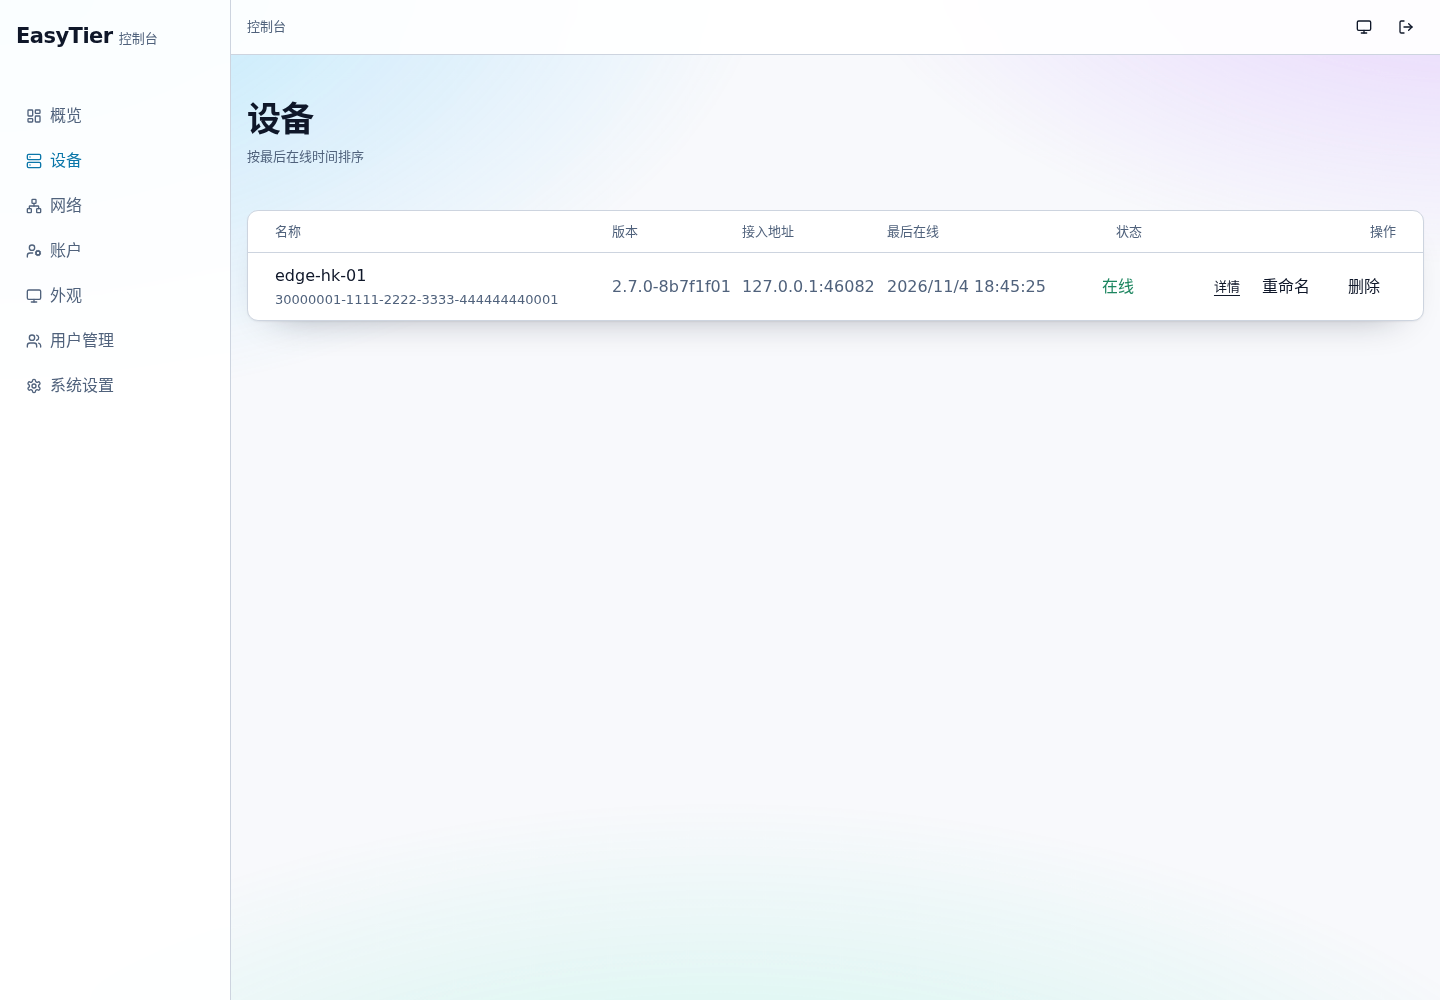
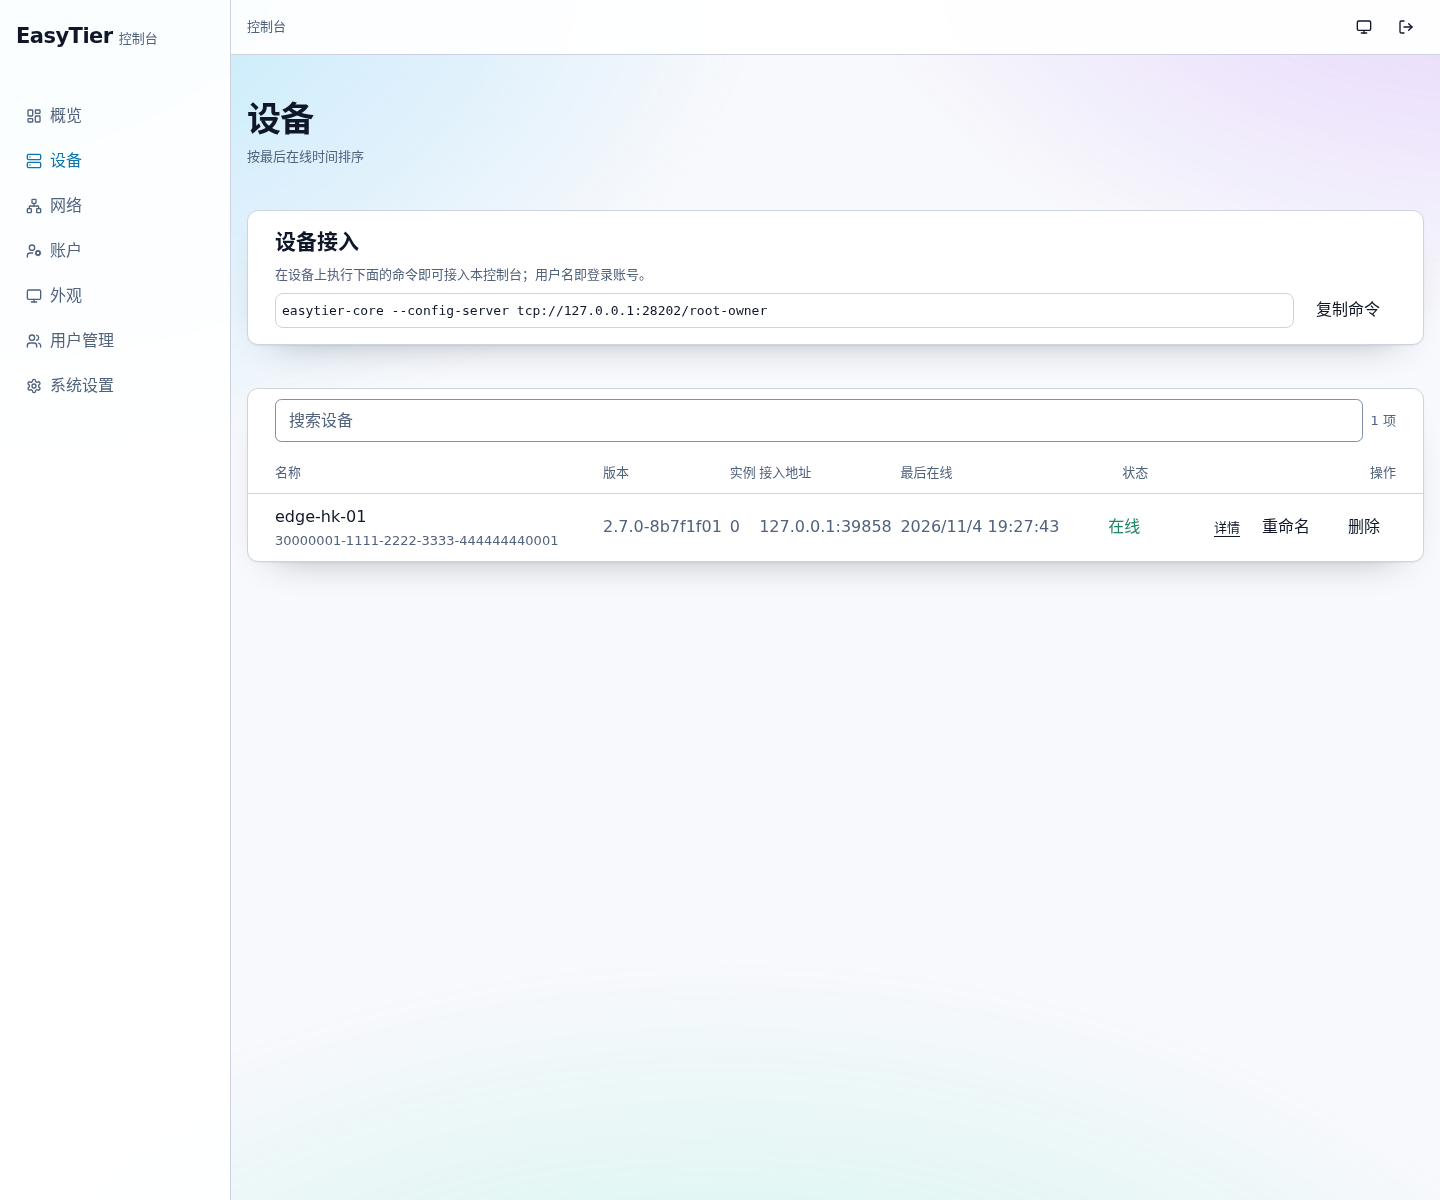
console: tell the client which port to dial, and guide device enrolment
console-info now carries config_server_port, parsed from the listen flag, so the
enrolment card can build the exact command instead of hard coding one. The device
list gains a search box, an instance count column and a filtered empty state.

Also fixes a bug in my own acceptance script: the text normaliser had its escape
eaten by a template, so /\s+/ became /s+/ and blanked every letter s.

diff --git a/client/src/features/devices/devices-page.tsx b/client/src/features/devices/devices-page.tsx
@@ -3,7 +3,8 @@ import { useState } from 'react';
 import { Link } from 'react-router-dom';
 import { copy } from '../../copy/zh-CN';
 import { api, type Machine } from '../../lib/http';
-import { Badge, Card, CardBody, Skeleton } from '../../ui';
+import { Badge, Card, CardBody, Input, Skeleton } from '../../ui';
+import { EnrollCard } from './enroll-card';
 import { DeviceActions } from './device-actions';
 import { BlockedDevices } from './blocked-devices';
 import { DeviceRoutes } from './device-routes';
@@ -21,7 +22,16 @@ function displayName(machine: Machine): string {
 
 export function DevicesPage() {
   const machines = useQuery({ queryKey: ['machines'], queryFn: api.machines, refetchInterval: 5_000 });
+  const [query, setQuery] = useState('');
   const rows = machines.data ?? [];
+  // Search by name, alias or machine id, the way the original device list does.
+  const needle = query.trim().toLocaleLowerCase();
+  const visible = needle
+    ? rows.filter((machine) => {
+        const haystack = [machine.hostname, machine.alias, machine.machine_id].join(" ").toLocaleLowerCase();
+        return haystack.includes(needle);
+      })
+    : rows;
   const [selected, setSelected] = useState<string | null>(null);
 
   return (
@@ -31,8 +41,24 @@ export function DevicesPage() {
         <p className="mt-[var(--u-2)] text-phi-sm text-muted-foreground">{copy.devices.subtitle}</p>
       </header>
 
+      <EnrollCard />
+
       <Card>
         <CardBody className="p-0">
+          <div className="flex flex-wrap items-center justify-between gap-[var(--u-3)] px-[var(--pad-card)] py-[var(--u-4)]">
+            <label className="min-w-0 flex-1">
+              <span className="sr-only">{copy.devices.search}</span>
+              <Input
+                value={query}
+                onChange={(event) => setQuery(event.target.value)}
+                placeholder={copy.devices.search}
+                aria-label={copy.devices.search}
+              />
+            </label>
+            <span className="shrink-0 text-phi-sm text-muted-foreground">
+              {visible.length} {copy.networks.count}
+            </span>
+          </div>
           {machines.isLoading ? (
             <div className="space-y-[var(--u-3)] p-[var(--pad-card)]">
               <Skeleton className="h-[var(--u-10)]" />
@@ -42,6 +68,9 @@ export function DevicesPage() {
           {!machines.isLoading && rows.length === 0 ? (
             <p className="p-[var(--pad-card)] text-phi-sm text-muted-foreground">{copy.devices.empty}</p>
           ) : null}
+          {!machines.isLoading && rows.length > 0 && visible.length === 0 ? (
+            <p className="p-[var(--pad-card)] text-phi-sm text-muted-foreground">{copy.devices.searchEmpty}</p>
+          ) : null}
 
           {rows.length > 0 ? (
             <div className="hidden md:block">
@@ -50,6 +79,7 @@ export function DevicesPage() {
                   <tr className="border-b border-border text-phi-sm text-muted-foreground">
                     <th className="px-[var(--pad-card)] py-[var(--u-4)] font-medium">{copy.devices.columns.name}</th>
                     <th className="py-[var(--u-4)] font-medium">{copy.devices.columns.version}</th>
+                    <th className="py-[var(--u-4)] font-medium">{copy.devices.instances}</th>
                     <th className="py-[var(--u-4)] font-medium">{copy.devices.columns.address}</th>
                     <th className="py-[var(--u-4)] font-medium">{copy.devices.columns.lastSeen}</th>
                     <th className="px-[var(--pad-card)] py-[var(--u-4)] text-right font-medium">{copy.devices.columns.state}</th>
@@ -57,13 +87,14 @@ export function DevicesPage() {
                   </tr>
                 </thead>
                 <tbody>
-                  {rows.map((machine) => (
+                  {visible.map((machine) => (
                     <tr key={machine.machine_id} className="border-b border-border last:border-0">
                       <td className="px-[var(--pad-card)] py-[var(--u-4)]">
                         <p className="font-medium">{displayName(machine)}</p>
                         <p className="text-phi-sm text-muted-foreground">{machine.machine_id}</p>
                       </td>
                       <td className="py-[var(--u-4)] tabular-nums text-muted-foreground">{machine.easytier_version || '—'}</td>
+                      <td className="py-[var(--u-4)] tabular-nums text-muted-foreground">{(machine.running_network_instances || []).length}</td>
                       <td className="py-[var(--u-4)] text-muted-foreground">{machine.client_url || '—'}</td>
                       <td className="py-[var(--u-4)] text-muted-foreground">{formatTime(machine.last_seen)}</td>
                       <td className="px-[var(--pad-card)] py-[var(--u-4)] text-right">

diff --git a/client/src/features/devices/enroll-card.tsx b/client/src/features/devices/enroll-card.tsx
@@ -1,0 +1,71 @@
+import { useQuery } from '@tanstack/react-query';
+import { useState } from 'react';
+import { copy } from '../../copy/zh-CN';
+import { api } from '../../lib/http';
+import { Button, Card, CardBody, Skeleton } from '../../ui';
+
+/**
+ * The command a device runs to join this console. It is built from console-info
+ * rather than hard coded, so the port and the account always match the server
+ * that is actually running.
+ */
+export function EnrollCard() {
+  const info = useQuery({ queryKey: ['console-info'], queryFn: api.consoleInfo, retry: false });
+  const [copied, setCopied] = useState(false);
+
+  if (info.isLoading) {
+    return <Skeleton className="h-[var(--u-16)]" />;
+  }
+
+  if (info.isError || !info.data) {
+    return (
+      <Card>
+        <CardBody>
+          <p role="alert" className="text-phi-sm text-destructive">
+            {(info.error as Error | null)?.message ?? copy.devices.enrollTitle}
+          </p>
+        </CardBody>
+      </Card>
+    );
+  }
+
+  const data = info.data;
+  const host = window.location.hostname || 'localhost';
+  const command =
+    'easytier-core --config-server ' +
+    data.config_server_protocol +
+    '://' +
+    host +
+    ':' +
+    data.config_server_port +
+    '/' +
+    data.username;
+
+  const copyCommand = async () => {
+    try {
+      await navigator.clipboard.writeText(command);
+      setCopied(true);
+    } catch {
+      setCopied(false);
+    }
+  };
+
+  return (
+    <Card>
+      <CardBody className="space-y-[var(--u-3)]">
+        <div>
+          <h2 className="text-phi-lg font-semibold">{copy.devices.enrollTitle}</h2>
+          <p className="mt-[var(--u-1)] text-phi-sm text-muted-foreground">{copy.devices.enrollHint}</p>
+        </div>
+        <div className="flex flex-wrap items-center gap-[var(--u-2)]">
+          <code className="min-w-0 flex-1 break-all rounded-[var(--radius)] border border-border bg-card p-[var(--u-2)] font-mono text-phi-sm">
+            {command}
+          </code>
+          <Button type="button" variant="ghost" onClick={copyCommand}>
+            {copied ? copy.devices.enrollCopied : copy.devices.enrollCopy}
+          </Button>
+        </div>
+      </CardBody>
+    </Card>
+  );
+}

diff --git a/client/src/copy/zh-CN.ts b/client/src/copy/zh-CN.ts
@@ -68,6 +68,13 @@ export const copy = {
     empty: '还没有设备接入。在设备上运行 easytier-core --config-server 即可接入。',
   },
   devices: {
+    enrollTitle: '设备接入',
+    enrollHint: '在设备上执行下面的命令即可接入本控制台；用户名即登录账号。',
+    enrollCopy: '复制命令',
+    enrollCopied: '已复制',
+    search: '搜索设备',
+    searchEmpty: '没有匹配的设备',
+    instances: '实例',
     detailBack: '返回设备列表',
     detailNetworks: '所属网络',
     detailNoNetworks: '这台设备还没有加入任何网络。',

diff --git a/client/src/lib/http.ts b/client/src/lib/http.ts
@@ -9,6 +9,7 @@ export interface ConsoleInfo {
   username: string;
   role: string;
   config_server_protocol: string;
+  config_server_port: number;
   webhook_auth: boolean;
 }
 

diff --git a/cmd/easytier-webd/main.go b/cmd/easytier-webd/main.go
@@ -18,6 +18,7 @@ import (
 	"net/http"
 	"os"
 	"os/signal"
+	"strconv"
 	"sync"
 	"syscall"
 	"time"
@@ -44,6 +45,20 @@ type options struct {
 	setupToken      string
 	heartbeatMin    time.Duration
 	heartbeatMax    time.Duration
+}
+
+// rpcPort reads the port out of the control-plane listen address, falling back
+// to zero when the address has no port (the enrolment guide then omits it).
+func rpcPort(listen string) int {
+	_, portText, err := net.SplitHostPort(listen)
+	if err != nil {
+		return 0
+	}
+	port, err := strconv.Atoi(portText)
+	if err != nil {
+		return 0
+	}
+	return port
 }
 
 func main() {
@@ -149,13 +164,14 @@ func run() error {
 	}
 
 	api, err := httpapi.New(httpapi.Config{
-		Store:         store,
-		Sessions:      manager,
-		SecureCookies: opts.secureCookies,
-		SetupToken:    opts.setupToken,
-		WebDir:        opts.webDir,
-		OIDC:          provider,
-		Settings:      cfgLayer,
+		Store:            store,
+		Sessions:         manager,
+		SecureCookies:    opts.secureCookies,
+		SetupToken:       opts.setupToken,
+		WebDir:           opts.webDir,
+		OIDC:             provider,
+		Settings:         cfgLayer,
+		ConfigServerPort: rpcPort(opts.listenRPC),
 	})
 	if err != nil {
 		return err

diff --git a/internal/httpapi/router.go b/internal/httpapi/router.go
@@ -46,6 +46,9 @@ type Config struct {
 	WebDir string
 	// OIDC, when non-nil, enables the authorization-code login flow.
 	OIDC *oidc.Provider
+	// ConfigServerPort is the control-plane port devices dial. The enrolment guide
+	// shows it, so the console has to know it rather than guess.
+	ConfigServerPort int
 	// SessionKey signs short lived cookies such as the OIDC login state.
 	SessionKey []byte
 	// PostLogoutRedirect is handed to the provider on logout.
@@ -461,6 +464,7 @@ func (s *Server) handleConsoleInfo(w http.ResponseWriter, r *http.Request, user 
 		"username":               user.Username,
 		"role":                   user.Role,
 		"config_server_protocol": "tcp",
+		"config_server_port":     s.cfg.ConfigServerPort,
 		"webhook_auth":           false,
 	})
 }

diff --git a/internal/httpapi/contract_test.go b/internal/httpapi/contract_test.go
@@ -24,7 +24,7 @@ func TestResponseShapesMatchClientInterfaces(t *testing.T) {
 		path string
 		keys []string
 	}{
-		{"/api/v1/console-info", []string{"username", "role", "config_server_protocol", "webhook_auth"}},
+		{"/api/v1/console-info", []string{"username", "role", "config_server_protocol", "config_server_port", "webhook_auth"}},
 		{"/api/v1/summary", []string{"device_count", "online_device_count"}},
 		{"/api/v1/machines", []string{"machines"}},
 		{"/api/v1/networks", []string{"networks"}},

diff --git a/ai-censorship/ledger.md b/ai-censorship/ledger.md
@@ -299,3 +299,5 @@
 | F-293 | r225 | R-A 前端 | P2 | 凭据页只显示 id 与「吊销」，后端其实已经返回 acl_groups / allow_relay / reusable / expiry_unix / allowed_proxy_cidrs，界面上看不到原版有的这些列 | FIXED | network-credentials-panel 改为表格：凭据 ID / ACL 组 / 允许中继 / 可复用 / 过期 / 操作；过期 0 显示「永久」，否则按本地时间格式化。浏览器实测表头六列齐全，行内容为 id、"ops, audit"、是、是、2026/12/4 18:51:48、吊销；0 console error |
 | F-294 | r226 | R-A 前端 | P2 | ACL 只有一个 JSON 文本框，原版是可视化规则构建器（规则表、动作、协议、源/目标、端口、默认动作、启用开关） | FIXED | 新增 acl-model.ts（AclPolicy/AclRule 类型 + parsePolicy/policyToJson + selectors/protocols 文本互转 + newRule）；network-acl-panel 改为规则卡片编辑 + 默认动作 + 上下移/删除 + JSON 视图切换。浏览器实测：添加规则填 name/action/cidr/tcp:22 后保存，服务端读回三条规则且 default_action=deny、新规则 action=deny、协议 tcp:22、源 10.0.0.0/8 |
 | F-295 | r226 | R-A 前端 | P1 | 规则 id 用自增计数器生成，**每次页面加载都从 1 开始**，于是两次不同会话添加的规则拿到同一个 id（服务端库里出现两条 rule-1）；React 的 key 与编辑回调都假设 id 唯一 | FIXED | newRule 改为随机 id；parsePolicy 载入时对重复 id 追加后缀（rule-1-2）；实测：库里原有两个 rule-1，保存后变为 rule-1 与 rule-1-2，唯一性检查通过 |
+| F-296 | r227 | R-A 前端 | P2 | 设备页缺少原版的接入引导与搜索，也没有实例数列；console-info 不返回控制面端口，前端无法拼出正确的接入命令 | FIXED | 后端 console-info 增加 config_server_port（由 webd 从 --config-server 地址解析）；新增 enroll-card 从 console-info 拼命令并支持复制；设备列表加搜索（名称/别名/machine id）与「实例」列、空结果提示。浏览器实测：命令为 easytier-core --config-server tcp://127.0.0.1:28202/root-owner、表头含「实例」、搜索命中 1 行、无匹配显示空态、0 console error |
+| F-297 | r227 | R-A 前端 | P2 | 我的浏览器验收脚本用 `replace(/\s+/g, " ")` 归一化文本，而模板把 `\s` 吞成 `s`，于是正则变成 `/s+/g`——**把文本里所有字母 s 替换成空格**，导致 "easytier" 变 "ea ytier"、"ops, audit" 变 "op , audit"，前几轮的文本断言因此出现过假阴性 | FIXED | 改用 split/join 归一化；本轮四条断言（命令含端口与用户名、表头含实例、搜索命中 1 行、空态出现）全部通过 |

diff --git a/ai-censorship/review-20261101-r227.md b/ai-censorship/review-20261101-r227.md
@@ -1,0 +1,40 @@
+# 第 227 轮评审（2026-11-01）— 设备接入引导、搜索与实例数
+
+原版设备页有三样我们没有：接入引导（enroll 命令 + 复制）、搜索、实例数。
+
+## 1. 接入引导要先补后端
+
+前端拼不出正确命令，因为 console-info 只回协议和用户名，**没有控制面端口**。
+于是先让 webd 从 --config-server 地址解析端口传进 httpapi.Config，再在 console-info 里返回。
+命令由前端按 console-info 现拼：
+
+    easytier-core --config-server tcp://127.0.0.1:28202/root-owner
+
+带复制按钮。这样换端口、换账号，命令自动跟着变，不会写死。
+
+## 2. 列表增强
+
+- 搜索：名称 / 别名 / machine id，忽略大小写；命中数显示在右上角；无匹配显示「没有匹配的设备」；
+- 实例数列：直接取 running_network_instances 的长度。
+
+## 3. 浏览器实测
+
+| 断言 | 结果 |
+|---|---|
+| 命令含 :28202 与 /root-owner | 通过 |
+| 表头含「实例」 | 通过 |
+| 搜索 edge 命中 1 行 | 通过 |
+| 搜不到显示空态 | 通过 |
+| console error / 失败请求 | 0 |
+
+## 4. 必须记下来的一个测试 bug（F-297）
+
+我的验收脚本用 replace(/\s+/g, " ") 归一化文本。但模板把 \s 吞成了 s，正则变成 /s+/g——
+**把文本里所有字母 s 换成空格**。于是 "easytier" 显示成 "ea ytier"、"ops, audit" 显示成 "op , audit"。
+前几轮我以为是 DOM 或字体问题，其实是自己的脚本在改文本。改用 split/join 后一切正常。
+
+教训：断言文本前先确认"归一化"没有改变内容；宁可逐单元格取 textContent。
+
+## 5. 状态
+
+UI 目标第 2 项完成。剩余：网络详情增强、创建向导、全局壳、Dashboard。

diff --git a/docs/UI-MATRIX.md b/docs/UI-MATRIX.md
@@ -8,8 +8,8 @@
 | 能力 | 原版 | 我们 | 结论 |
 |---|---|---|---|
 | ACL 规则构建器 | AclPolicyTab.vue（494 行）：规则表、增删改、action、protocol、source/target、端口、默认动作、启用开关 | **已实现**：默认动作、规则卡片（名称/动作/启用/源/目标/协议端口）、上传下载顺序、删除、JSON 视图切换 | 已对齐 |
-| 设备接入引导 | DeviceList/MainPage：enroll token、命令复制、说明 | 无 | 缺 |
-| 设备列表增强 | DeviceList：搜索、别名、封禁/解封、删除、实例数、位置、公网 IP、刷新/重试 | 有别名/删除；缺搜索、实例数、位置、公网 IP | 缺 |
+| 设备接入引导 | DeviceList/MainPage：enroll token、命令复制、说明 | **已实现**：从 console-info 拼出 `easytier-core --config-server <proto>://<host>:<port>/<user>`，一键复制 | 已对齐 |
+| 设备列表增强 | DeviceList：搜索、别名、封禁、删除、实例数、位置、公网 IP | 已有别名/删除/封禁；**新增搜索、实例数列**；位置与公网 IP 缺（需要 geoip，我们只有接入地址） | 部分 |
 | 设备详情 | DeviceDetails：central_networks、hostname、last_report、location、public_ip、status、version | 有页头 + 所属网络；缺 location/public_ip/last_report | 部分 |
 | 网络详情增强 | NetworkDetail（1660 行）：临时成员（凭证加入）、配置复制/重置、ACL 统计（bytes/packets/rule）、对端与路由 | 有成员增删改、凭据、高级设置；缺临时成员、配置复制/重置、ACL 统计 | 部分 |
 | 网络创建 | NetworkList：networking_method（standalone/manual/gateway/public server）、secure mode、initial nodes、advanced mode | 只有名称 + 网段 | 缺 |
